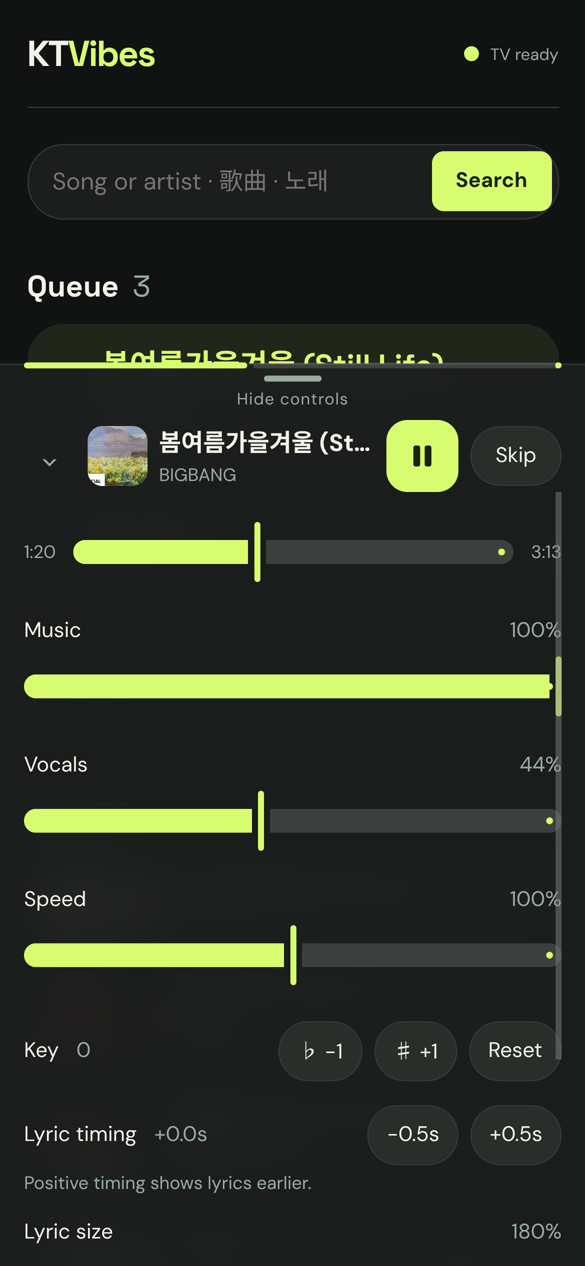
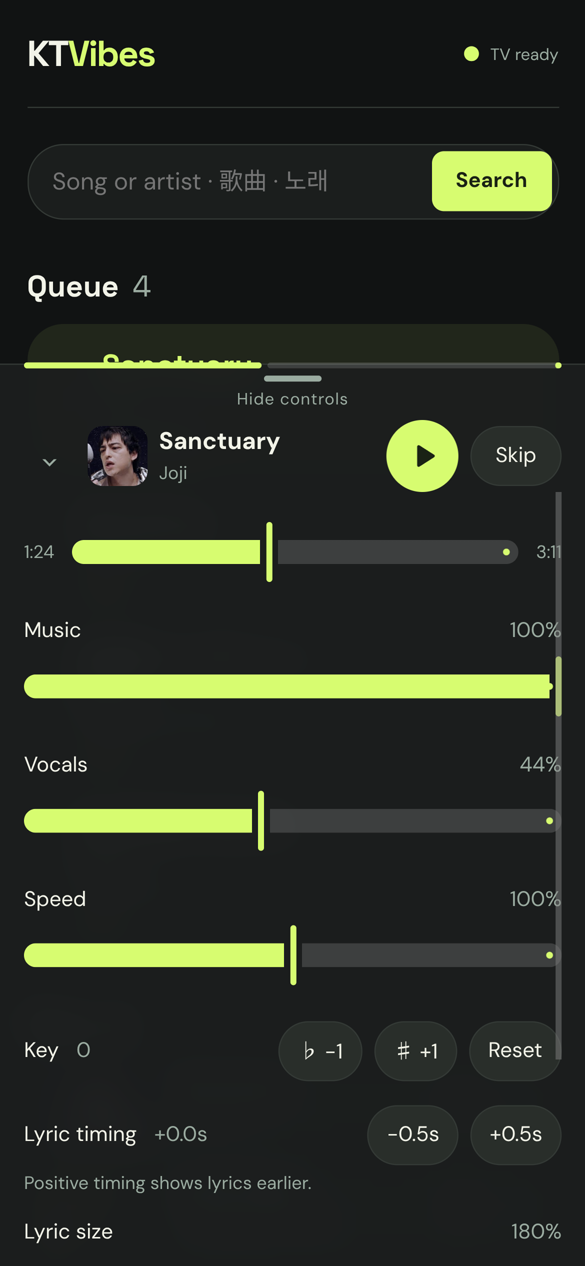
Add a GitHub Pages landing page and matching screenshots
docs/index.html is a single-page site with spring animations, shape-morphing
cards, a KTV wipe in the headline and per-language guide demos. The README,
landing page and social preview now use screenshots taken at one moment, so
the TV and the phone remote show the same song and queue.

Claude-Session: https://claude.ai/code/session_016uRuoKeUAYj7pBGtwzvYDH

diff --git a/docs/index.html b/docs/index.html
@@ -1,0 +1,197 @@
+<!doctype html>
+<html lang="en">
+<head>
+<meta charset="utf-8">
+<meta name="viewport" content="width=device-width,initial-scale=1">
+<title>KTVibes · Self-hosted karaoke from any YouTube song</title>
+<meta name="description" content="Free, open-source home karaoke. Turn any YouTube song into karaoke with AI vocal removal, KTV-style synced lyrics, pinyin, jyutping, romaji and Hangul guides, key and speed control, and a phone remote.">
+<link rel="canonical" href="https://andyleenz.github.io/KTVibes/">
+<meta property="og:type" content="website">
+<meta property="og:title" content="KTVibes · Turn any YouTube song into karaoke at home">
+<meta property="og:description" content="AI vocal removal, KTV-style lyrics, pronunciation guides for Chinese, Cantonese, Korean and Japanese, and a phone remote. Self-hosted and open source.">
+<meta property="og:url" content="https://andyleenz.github.io/KTVibes/">
+<meta property="og:image" content="https://andyleenz.github.io/KTVibes/social.png">
+<meta name="twitter:card" content="summary_large_image">
+<meta name="theme-color" content="#111313">
+<script type="application/ld+json">{"@context":"https://schema.org","@type":"SoftwareApplication","name":"KTVibes","applicationCategory":"MultimediaApplication","operatingSystem":"Linux, macOS, Windows","offers":{"@type":"Offer","price":"0"},"url":"https://andyleenz.github.io/KTVibes/","codeRepository":"https://github.com/andyleenz/KTVibes","license":"https://opensource.org/licenses/MIT"}</script>
+<link rel="preconnect" href="https://fonts.googleapis.com"><link rel="preconnect" href="https://fonts.gstatic.com" crossorigin>
+<link href="https://fonts.googleapis.com/css2?family=DM+Sans:wght@400;500;700&family=Space+Grotesk:wght@500;700&family=Noto+Sans+KR:wght@700&family=Noto+Sans+TC:wght@700&family=Noto+Sans+JP:wght@700&display=swap" rel="stylesheet">
+<style>
+:root{--bg:#111313;--surface:#1b1e1d;--surface2:#232826;--line:#343a36;--ink:#f2f3e8;--muted:#9aaba0;--lime:#d7fc70;--on-lime:#172013;
+ --spring:cubic-bezier(.34,1.56,.64,1);--spring-soft:cubic-bezier(.38,1.21,.22,1);--emph:cubic-bezier(.2,0,0,1)}
+*{box-sizing:border-box}html{scroll-behavior:smooth}
+body{margin:0;background:var(--bg);color:var(--ink);font:400 17px/1.6 'DM Sans',sans-serif;-webkit-font-smoothing:antialiased;overflow-x:hidden}
+a{color:inherit}
+h1,h2,h3{font-family:'Space Grotesk',sans-serif;letter-spacing:-.03em;margin:0}
+.wrap{max-width:1180px;margin:auto;padding:0 28px}
+
+/* Top bar */
+/* Floats over the hero glow; blur and tint fade out at the bottom edge instead of a hard line. */
+nav{position:fixed;top:0;left:0;right:0;z-index:10;padding-bottom:24px;backdrop-filter:blur(14px) saturate(1.4);-webkit-backdrop-filter:blur(14px) saturate(1.4);
+ background:linear-gradient(#111313d0,#11131380 60%,#11131300);mask-image:linear-gradient(#000 74%,transparent);-webkit-mask-image:linear-gradient(#000 74%,transparent)}
+nav .wrap{display:flex;align-items:center;justify-content:space-between;height:68px}
+.brand{font:700 26px 'Space Grotesk',sans-serif;letter-spacing:-1.2px;text-decoration:none}.brand span{color:var(--lime)}
+.pill{display:inline-flex;align-items:center;gap:8px;padding:10px 20px;border-radius:999px;text-decoration:none;font-weight:700;font-size:15px;
+ transition:border-radius .35s var(--spring),transform .35s var(--spring),background .2s}
+.pill:active{border-radius:12px;transform:scale(.96)}
+.pill.primary{background:var(--lime);color:var(--on-lime)}.pill.primary:hover{border-radius:14px}
+.pill.tonal{background:#ffffff12;border:1px solid #ffffff1f}.pill.tonal:hover{background:#ffffff1c;border-radius:14px}
+.pill svg{width:18px;height:18px;fill:currentColor}
+
+/* Hero */
+.hero{position:relative;padding:164px 0 40px;text-align:center;background:radial-gradient(ellipse 70% 60% at 50% 0%,#2a3826 0%,transparent 70%)}
+.eyebrow{display:inline-block;font-size:13px;font-weight:700;letter-spacing:2px;color:var(--lime);text-transform:uppercase;margin-bottom:22px}
+.hero h1{font-size:clamp(46px,8vw,96px);line-height:.98;letter-spacing:-.045em;max-width:980px;margin:auto}
+/* The headline's last word fills like a KTV lyric. */
+.wipe{position:relative;display:inline-block;color:#ffffff38}
+.wipe::after{content:attr(data-text);position:absolute;inset:0;color:var(--lime);clip-path:inset(0 100% 0 0);animation:wipe 2.6s .6s var(--emph) infinite}
+@keyframes wipe{0%{clip-path:inset(0 100% 0 0)}55%,85%{clip-path:inset(0 0 0 0)}100%{clip-path:inset(0 0 0 0);opacity:0}}
+.hero p.lead{font-size:20px;color:var(--muted);max-width:640px;margin:28px auto 36px}
+.cta{display:flex;gap:12px;justify-content:center;flex-wrap:wrap}
+.stage{position:relative;margin:72px auto 0;max-width:1100px}
+.stage .tv{width:100%;height:auto;border-radius:28px;display:block;box-shadow:0 40px 120px #000c,0 0 0 1px #d7fc7026}
+.stage .phone{position:absolute;right:-10px;bottom:-60px;width:min(26%,250px);height:auto;border-radius:34px;box-shadow:0 30px 80px #000e,0 0 0 7px #1b1e1d,0 0 0 8px #ffffff26;
+ animation:float 6s ease-in-out infinite}
+@keyframes float{50%{transform:translateY(-14px) rotate(-1deg)}}
+
+/* Sections */
+section{padding:120px 0 0}
+.section-head{max-width:720px;margin-bottom:48px}
+.section-head h2{font-size:clamp(34px,5vw,56px);line-height:1.02}
+.section-head p{color:var(--muted);font-size:19px;margin:18px 0 0}
+
+/* Feature cards: shapes morph on hover, springs on reveal. */
+.grid{display:grid;grid-template-columns:repeat(auto-fit,minmax(300px,1fr));gap:16px}
+.card{position:relative;padding:32px;border-radius:32px;background:var(--surface);border:1px solid #ffffff0d;overflow:hidden;
+ transition:border-radius .5s var(--spring),transform .5s var(--spring),background .3s}
+.card:hover{border-radius:56px 18px 56px 18px;transform:translateY(-4px);background:var(--surface2)}
+.card.big{grid-column:span 2}@media(max-width:700px){.card.big{grid-column:auto}}
+.card h3{font-size:24px;margin:22px 0 10px}.card p{margin:0;color:var(--muted)}
+.icon{display:grid;place-items:center;width:64px;height:64px;background:var(--lime);color:var(--on-lime);font:700 26px 'Space Grotesk',sans-serif;
+ border-radius:22px;transition:border-radius .6s var(--spring),transform .6s var(--spring)}
+.card:hover .icon{border-radius:50%;transform:rotate(-12deg) scale(1.08)}
+.card:nth-child(3n+2) .icon{border-radius:50% 50% 22px 50%}.card:nth-child(3n) .icon{border-radius:32px 10px}
+.icon svg{width:30px;height:30px;fill:none;stroke:currentColor;stroke-width:2.2;stroke-linecap:round;stroke-linejoin:round}
+
+/* Pronunciation guide demo: one line, guides swap with a spring. */
+.guides{display:grid;grid-template-columns:repeat(auto-fit,minmax(250px,1fr));gap:16px}
+.lang{padding:30px 28px 26px;border-radius:32px;background:var(--surface);border:1px solid #ffffff0d;text-align:center;transition:border-radius .5s var(--spring),transform .5s var(--spring)}
+.lang:hover{border-radius:18px 56px;transform:scale(1.02)}
+.lang small{display:block;font-size:12px;letter-spacing:1.8px;text-transform:uppercase;color:var(--muted);margin-bottom:18px}
+.ruby{display:flex;justify-content:center;gap:6px;flex-wrap:wrap}
+.ruby span{display:flex;flex-direction:column;align-items:center;line-height:1.1}
+.ruby i{font-style:normal;font-size:15px;color:var(--lime);font-weight:500;min-height:18px}
+.ruby b{font:700 38px 'Noto Sans TC','Noto Sans KR','Noto Sans JP',sans-serif;color:#ffffff40;background:linear-gradient(90deg,var(--lime) 50%,#ffffff40 50%) 100% 0/200% 100% no-repeat;-webkit-background-clip:text;background-clip:text;color:transparent}
+.lang.on .ruby b{animation:fill 1s var(--emph) forwards;animation-delay:calc(var(--i) * .22s)}
+@keyframes fill{to{background-position:0 0}}
+
+/* Controls strip */
+.controls{display:grid;grid-template-columns:1.1fr .9fr;gap:16px;align-items:stretch}@media(max-width:860px){.controls{grid-template-columns:1fr}}
+.shot{border-radius:32px;overflow:hidden;background:var(--surface);display:grid;place-items:center;padding:28px}
+.shot img{width:100%;height:auto;max-width:330px;border-radius:26px;box-shadow:0 20px 60px #000a}
+.list{display:grid;gap:12px;align-content:start}
+.row{display:flex;gap:18px;align-items:flex-start;padding:22px 24px;border-radius:24px;background:var(--surface);transition:border-radius .45s var(--spring),transform .45s var(--spring)}
+.row:hover{border-radius:40px;transform:translateX(6px)}
+.row b{flex:none;display:grid;place-items:center;width:44px;height:44px;border-radius:14px;background:#d7fc701f;color:var(--lime);font:700 18px 'Space Grotesk',sans-serif}
+.row h3{font-size:19px}.row p{margin:4px 0 0;color:var(--muted);font-size:15px}
+
+/* Install */
+.install{border-radius:40px;background:linear-gradient(135deg,#202a1c,#161a17);padding:48px;border:1px solid #d7fc7022}
+.tabs{display:inline-flex;gap:4px;padding:5px;border-radius:999px;background:#0006;margin-bottom:22px}
+.tabs button{border:0;background:transparent;color:var(--muted);font:500 15px 'DM Sans',sans-serif;padding:10px 20px;border-radius:999px;cursor:pointer;transition:background .3s var(--spring),color .2s,border-radius .4s var(--spring)}
+.tabs button[aria-selected=true]{background:var(--lime);color:var(--on-lime);font-weight:700}
+.tabs button:active{border-radius:10px}
+.cmd{display:flex;align-items:center;gap:12px;background:#0b0d0c;border:1px solid var(--line);border-radius:20px;padding:18px 18px 18px 24px;font:500 15px ui-monospace,'JetBrains Mono',monospace;overflow-x:auto}
+.cmd code{flex:1;white-space:nowrap;color:#e6f5c4}
+.copy{flex:none;border:0;cursor:pointer;width:44px;height:44px;border-radius:14px;background:#ffffff14;color:var(--ink);display:grid;place-items:center;transition:border-radius .4s var(--spring),background .2s,transform .3s var(--spring)}
+.copy:hover{border-radius:50%}.copy.done{background:var(--lime);color:var(--on-lime);transform:scale(1.1) rotate(-8deg)}
+.copy svg{width:20px;height:20px;fill:none;stroke:currentColor;stroke-width:2;stroke-linecap:round;stroke-linejoin:round}
+.install p{color:var(--muted);margin:18px 0 0;font-size:15px}
+.install ol{margin:28px 0 0;padding-left:22px;color:var(--muted)}.install li{margin:6px 0}.install li b{color:var(--ink)}
+
+footer{padding:120px 0 60px;text-align:center;color:var(--muted);font-size:14px}
+footer .brand{font-size:44px;display:block;margin-bottom:18px}
+
+/* Scroll reveal: elements spring up into place. */
+.reveal{opacity:0;transform:translateY(40px) scale(.97);transition:opacity .6s var(--emph),transform .9s var(--spring-soft);transition-delay:calc(var(--d,0) * 70ms)}
+.reveal.in{opacity:1;transform:none}
+@media(prefers-reduced-motion:reduce){*,*::after{animation:none!important;transition:none!important}.reveal{opacity:1;transform:none}.ruby b{background-position:0 0}}
+</style>
+</head>
+<body>
+<nav><div class="wrap"><a class="brand" href="#">KT<span>Vibes</span></a>
+ <a class="pill tonal" href="https://github.com/andyleenz/KTVibes"><svg viewBox="0 0 16 16"><path d="M8 0C3.58 0 0 3.58 0 8c0 3.54 2.29 6.53 5.47 7.59.4.07.55-.17.55-.38 0-.19-.01-.82-.01-1.49-2.01.37-2.53-.49-2.69-.94-.09-.23-.48-.94-.82-1.13-.28-.15-.68-.52-.01-.53.63-.01 1.08.58 1.23.82.72 1.21 1.87.87 2.33.66.07-.52.28-.87.51-1.07-1.78-.2-3.64-.89-3.64-3.95 0-.87.31-1.59.82-2.15-.08-.2-.36-1.02.08-2.12 0 0 .67-.21 2.2.82.64-.18 1.32-.27 2-.27.68 0 1.36.09 2 .27 1.53-1.04 2.2-.82 2.2-.82.44 1.1.16 1.92.08 2.12.51.56.82 1.27.82 2.15 0 3.07-1.87 3.75-3.65 3.95.29.25.54.73.54 1.48 0 1.07-.01 1.93-.01 2.2 0 .21.15.46.55.38A8.013 8.013 0 0016 8c0-4.42-3.58-8-8-8z"/></svg>GitHub</a></div></nav>
+
+<header class="hero"><div class="wrap">
+ <span class="eyebrow reveal">Free · open source · self-hosted</span>
+ <h1 class="reveal" style="--d:1">Turn any YouTube song into <span class="wipe" data-text="karaoke">karaoke</span></h1>
+ <p class="lead reveal" style="--d:2">AI strips the vocals, synced lyrics fill as they're sung, and everyone queues songs from their phone. Pronunciation guides for Chinese, Cantonese, Korean and Japanese.</p>
+ <div class="cta reveal" style="--d:3"><a class="pill primary" href="#install">Install</a><a class="pill tonal" href="https://github.com/andyleenz/KTVibes">View on GitHub</a></div>
+ <div class="stage reveal" style="--d:4">
+  <img class="tv" src="tv-hero.jpg" alt="KTVibes on a TV: Joji's Sanctuary with lyrics filling word by word" width="1920" height="1080">
+  <img class="phone" src="remote-queue.png" alt="KTVibes phone remote showing the queue" loading="lazy">
+ </div>
+</div></header>
+
+<section><div class="wrap">
+ <div class="section-head reveal"><h2>A KTV room, in your living room</h2><p>Everything a karaoke box does, built from songs you already know.</p></div>
+ <div class="grid">
+  <div class="card big reveal"><div class="icon"><svg viewBox="0 0 24 24"><path d="M12 3v10"/><path d="M8 7v6M16 7v6M4 10v3M20 10v3"/><path d="M6 21h12"/></svg></div><h3>Any song on YouTube</h3><p>Search from your phone. KTVibes downloads the song and its music video, and skips reactions, dance practices, mixes and karaoke uploads.</p></div>
+  <div class="card reveal" style="--d:1"><div class="icon">♫</div><h3>AI vocal removal</h3><p>Demucs separates the singer from the music, on an NVIDIA GPU, Apple Silicon or CPU. Keep a little guide vocal if you like.</p></div>
+  <div class="card reveal" style="--d:2"><div class="icon">Aa</div><h3>Lyrics that fill as they're sung</h3><p>Synced lyrics from LRCLIB, timed character by character against the vocals by forced alignment.</p></div>
+  <div class="card reveal" style="--d:3"><div class="icon">♯</div><h3>Key and speed</h3><p>Shift ±6 semitones without changing tempo, or slow a song down without changing pitch.</p></div>
+  <div class="card reveal" style="--d:4"><div class="icon"><svg viewBox="0 0 24 24"><rect x="7" y="2.5" width="10" height="19" rx="3"/><path d="M11 18h2"/></svg></div><h3>Phone remote</h3><p>Scan the QR code on the TV to join. One shared queue for everyone, with undo.</p></div>
+ </div>
+</div></section>
+
+<section id="languages"><div class="wrap">
+ <div class="section-head reveal"><h2>Sing in any language</h2><p>A pronunciation guide sits above every character and fills along with it. Cycle guides from the remote, or press G.</p></div>
+ <div class="guides">
+  <div class="lang reveal"><small>Mandarin · pinyin</small><div class="ruby"><span style="--i:0"><i>qíng</i><b>晴</b></span><span style="--i:1"><i>tiān</i><b>天</b></span></div></div>
+  <div class="lang reveal" style="--d:1"><small>Cantonese · jyutping</small><div class="ruby"><span style="--i:0"><i>hoi2</i><b>海</b></span><span style="--i:1"><i>kut3</i><b>闊</b></span><span style="--i:2"><i>tin1</i><b>天</b></span><span style="--i:3"><i>hung1</i><b>空</b></span></div></div>
+  <div class="lang reveal" style="--d:2"><small>Korean · romanization</small><div class="ruby"><span style="--i:0"><i>bom</i><b>봄</b></span><span style="--i:1"><i>nal</i><b>날</b></span></div></div>
+  <div class="lang reveal" style="--d:3"><small>Japanese · romaji</small><div class="ruby"><span style="--i:0"><i>a</i><b>あ</b></span><span style="--i:1"><i>ri</i><b>り</b></span><span style="--i:2"><i>ga</i><b>が</b></span><span style="--i:3"><i>to</i><b>と</b></span><span style="--i:4"><i>u</i><b>う</b></span></div></div>
+ </div>
+</div></section>
+
+<section><div class="wrap controls">
+ <div class="shot reveal"><img src="remote-controls.png" alt="Remote controls: music, vocals, speed and key" loading="lazy"></div>
+ <div class="list">
+  <div class="section-head reveal" style="margin-bottom:12px"><h2>Your mix, your key</h2></div>
+  <div class="row reveal" style="--d:1"><b>1</b><div><h3>Music and vocals sliders</h3><p>Turn the original singer down to a whisper, or all the way off.</p></div></div>
+  <div class="row reveal" style="--d:2"><b>2</b><div><h3>Lyrics language picker</h3><p>K-pop song with a Japanese release? Pick which lyrics to show, live.</p></div></div>
+  <div class="row reveal" style="--d:3"><b>3</b><div><h3>Everything's cached</h3><p>Sing a song once and it starts instantly next time.</p></div></div>
+  <div class="row reveal" style="--d:4"><b>4</b><div><h3>On-screen cards</h3><p>Every change, from key to queue, pops up on the TV so the room knows.</p></div></div>
+ </div>
+</div></section>
+
+<section id="install"><div class="wrap">
+ <div class="install reveal">
+  <h2 style="font-size:clamp(32px,4.5vw,48px)">Install in one line</h2>
+  <p style="margin:10px 0 28px">Needs a computer connected to the TV. An NVIDIA GPU or Apple Silicon Mac makes songs ready in seconds.</p>
+  <div class="tabs" role="tablist"><button role="tab" aria-selected="true" data-cmd="curl -LsSf https://raw.githubusercontent.com/andyleenz/KTVibes/main/install.sh | bash">Linux · macOS</button><button role="tab" aria-selected="false" data-cmd="powershell -ExecutionPolicy ByPass -c &quot;irm https://raw.githubusercontent.com/andyleenz/KTVibes/main/install.ps1 | iex&quot;">Windows</button></div>
+  <div class="cmd"><code id="cmd">curl -LsSf https://raw.githubusercontent.com/andyleenz/KTVibes/main/install.sh | bash</code>
+   <button class="copy" id="copy" aria-label="Copy command"><svg viewBox="0 0 24 24"><rect x="9" y="9" width="11" height="11" rx="3"/><path d="M5 15V6a2 2 0 0 1 2-2h8"/></svg></button></div>
+  <ol><li>Run <b>ktvibes</b></li><li>Open <b>http://localhost:8765/tv</b> on the TV and click <b>Enable sound</b></li><li>Scan the QR code with your phone and start queuing</li></ol>
+ </div>
+</div></section>
+
+<footer><a class="brand" href="https://github.com/andyleenz/KTVibes">KT<span>Vibes</span></a>MIT licensed · for personal, at-home use · lyrics from <a href="https://lrclib.net">LRCLIB</a></footer>
+
+<script>
+// Spring elements into view as they scroll in; language cards replay their wipe each time.
+const seen=new IntersectionObserver(entries=>{for(const e of entries){
+ if(e.target.classList.contains('lang')){e.target.classList.toggle('on',e.isIntersecting);if(e.isIntersecting)e.target.classList.add('in');continue;}
+ if(e.isIntersecting){e.target.classList.add('in');seen.unobserve(e.target);}
+}},{threshold:.2});
+document.querySelectorAll('.reveal').forEach(el=>seen.observe(el));
+const cmd=document.getElementById('cmd'),copy=document.getElementById('copy');
+document.querySelectorAll('.tabs button').forEach(tab=>tab.onclick=()=>{
+ document.querySelectorAll('.tabs button').forEach(t=>t.setAttribute('aria-selected',t===tab));
+ cmd.animate([{opacity:0,transform:'translateY(8px)'},{opacity:1,transform:'none'}],{duration:350,easing:'cubic-bezier(.34,1.56,.64,1)'});
+ cmd.textContent=tab.dataset.cmd;
+});
+copy.onclick=async()=>{try{await navigator.clipboard.writeText(cmd.textContent);copy.classList.add('done');setTimeout(()=>copy.classList.remove('done'),1400);}catch{}};
+</script>
+</body>
+</html>
